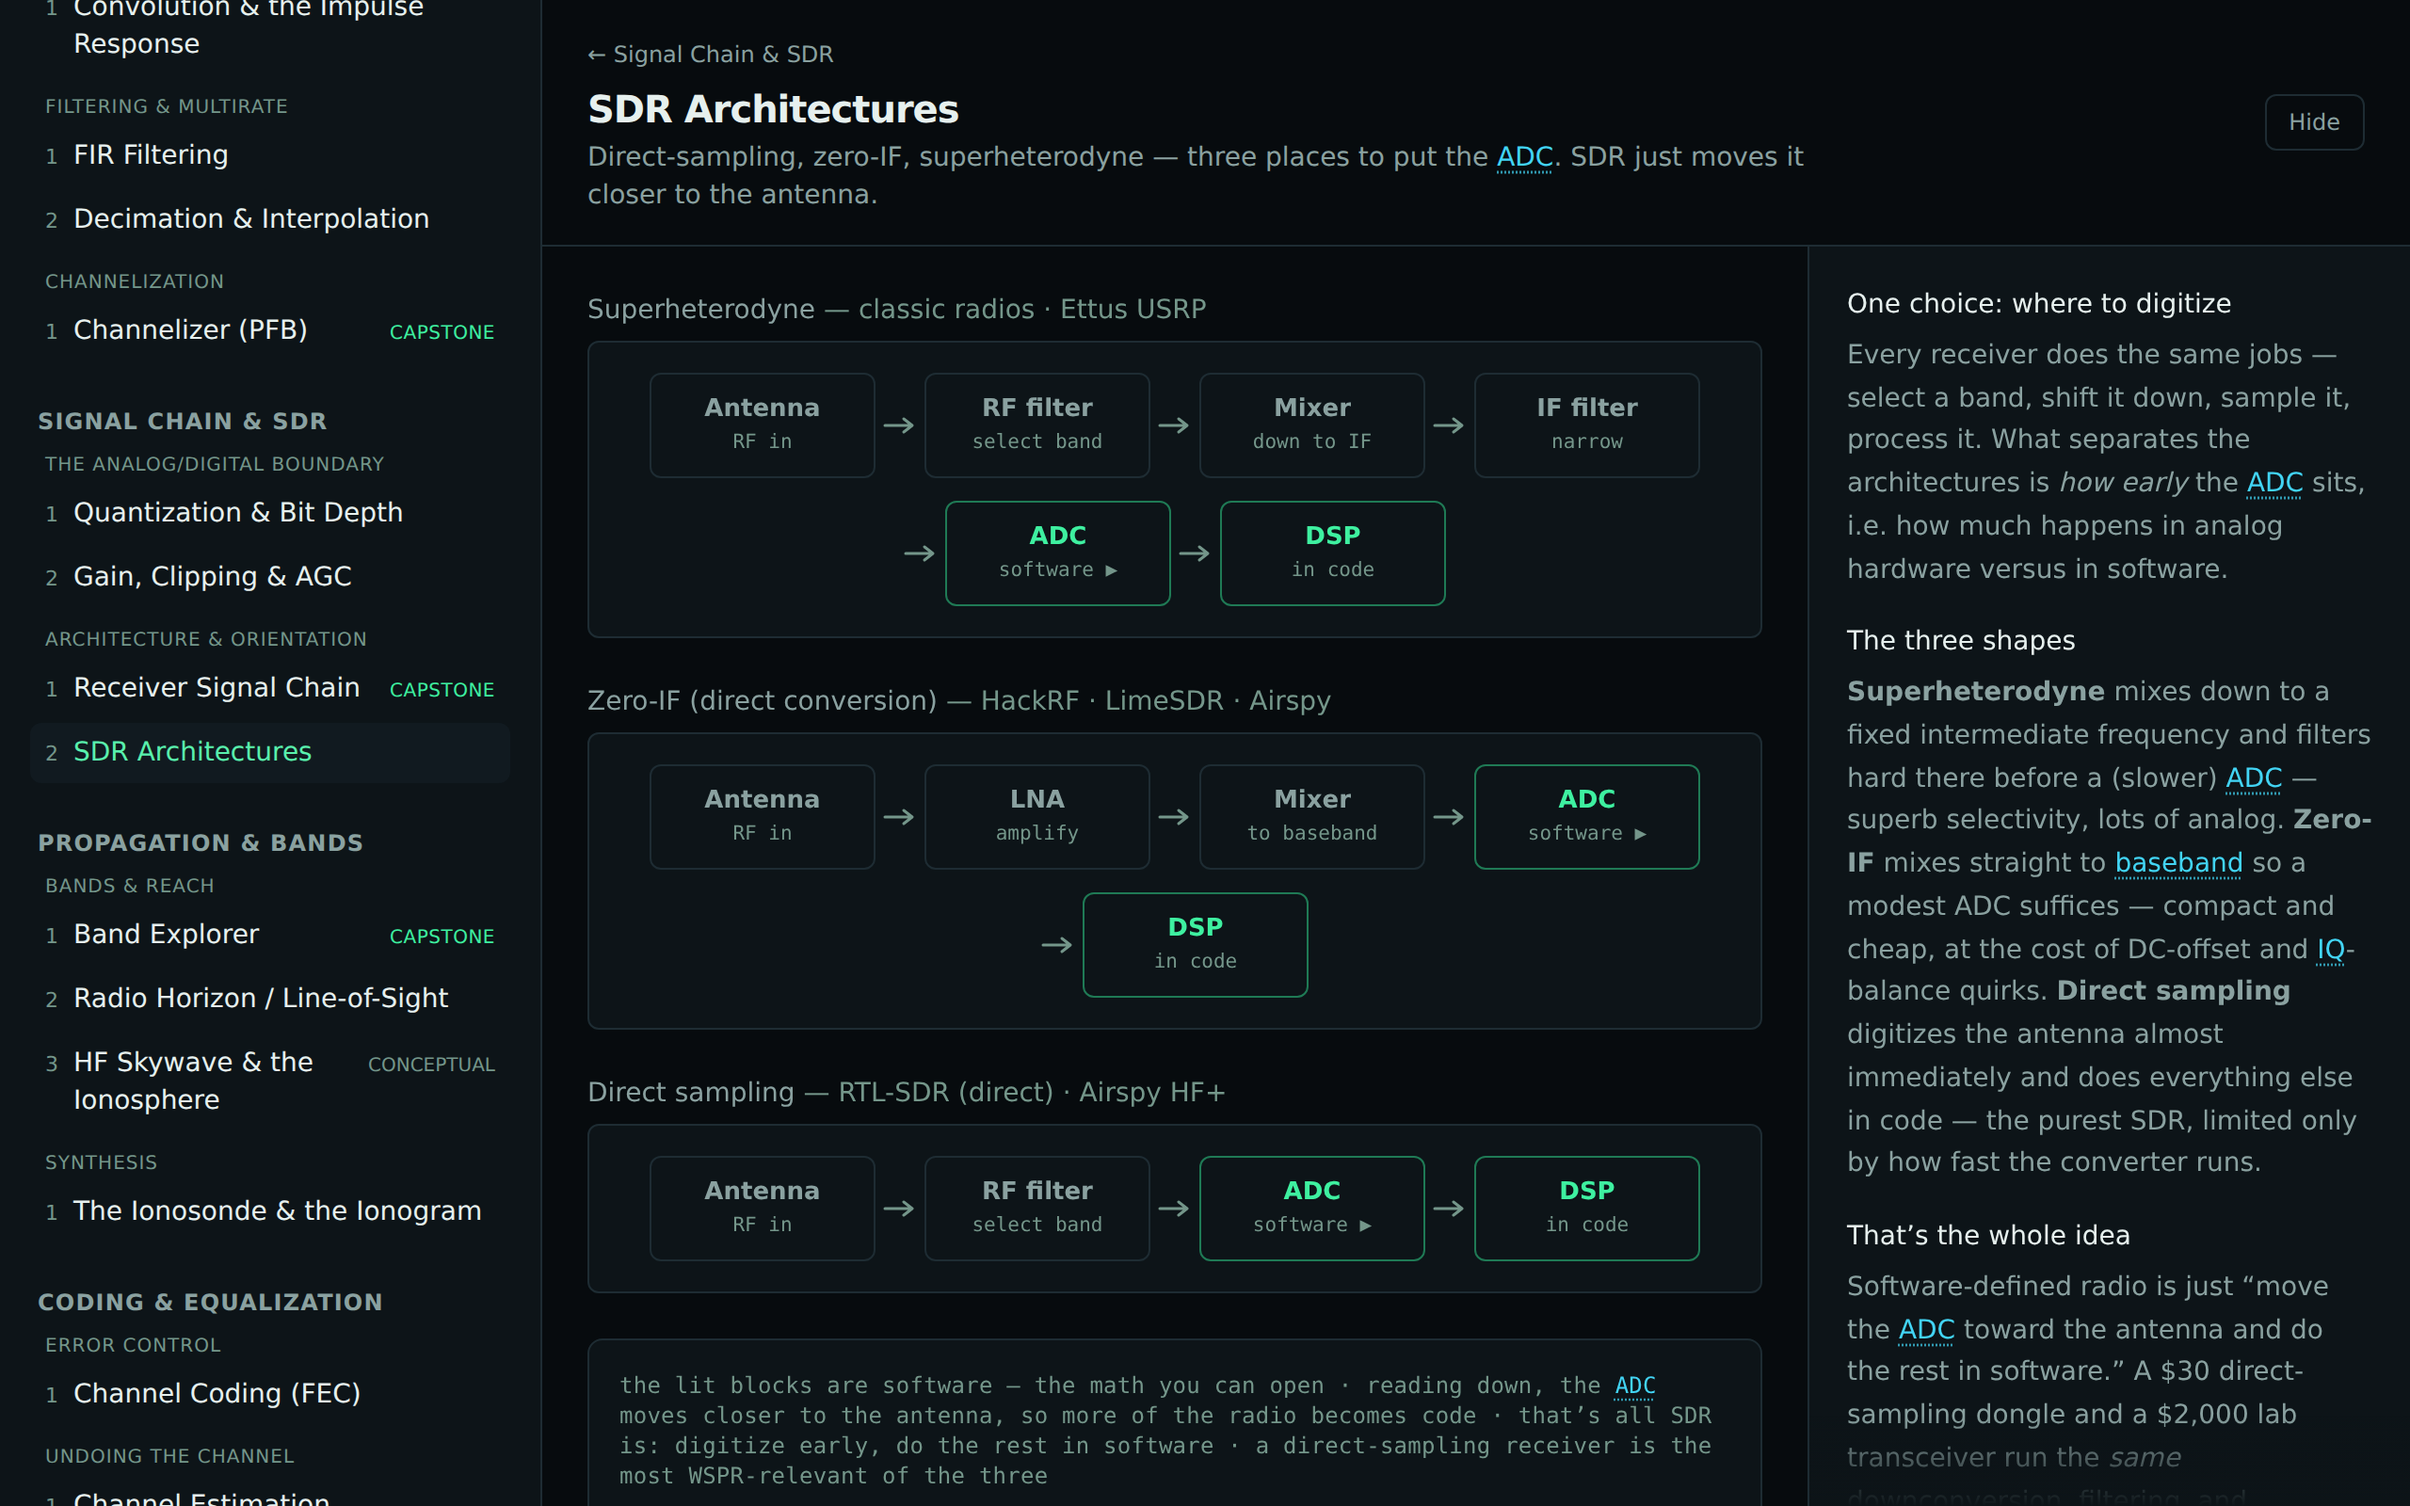
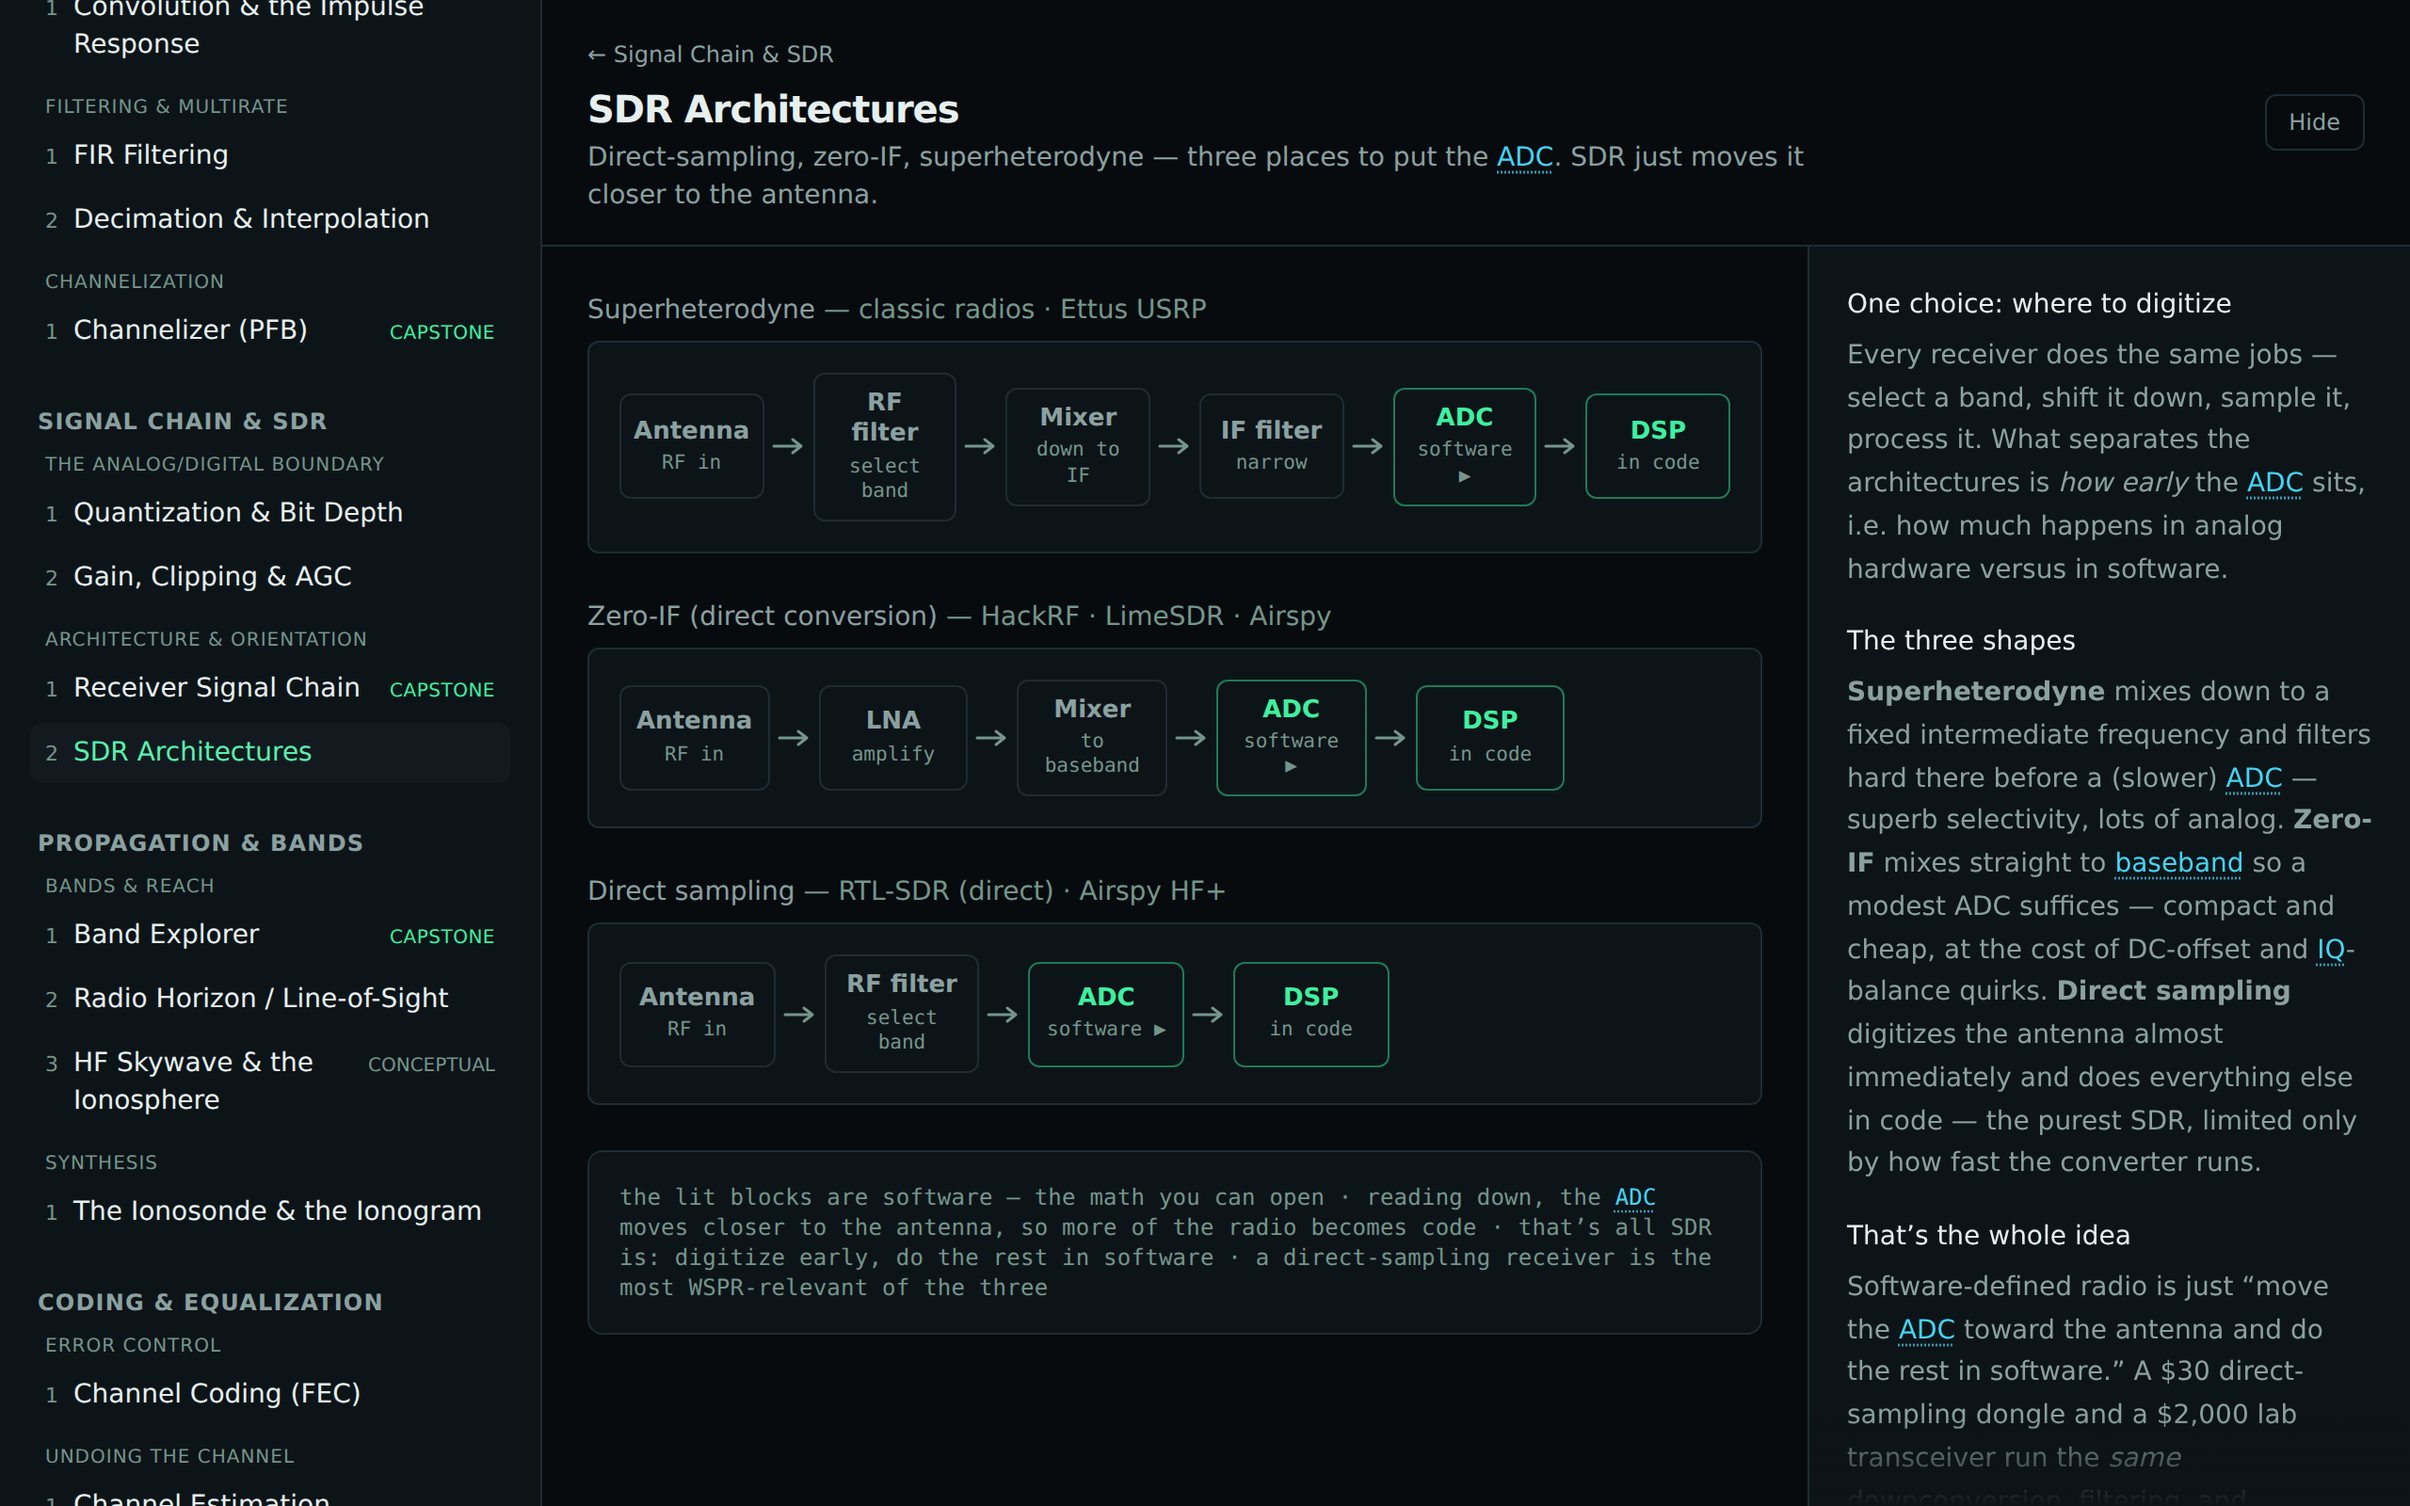
Keep the SDR comparison aligned on a shared grid
The SDR Architectures module stacks three chains to make one point: reading
down, the ADC marches toward the antenna — more of the radio becoming software.
That reading only works if the ADC lines up column-for-column across the three
rows. The responsive-wrap change broke it: each diagram wrapped and centered on
its own, so the superhet ADC dropped to a second row while the zero-IF ADC sat
far right, and even unwrapped the centered rows of different lengths no longer
shared a left edge (raised in review).

Give the shared renderer a second layout for exactly this case: pass `columns`
and the chain lays out as one non-wrapping row on a `columns`-wide grid, block i
always in column i, shorter chains left-aligning into it — so block i lines up
across every diagram given the same width. The boxes shrink to fit instead of
wrapping (the SDR rows are short and were already comfortable that way). The SDR
module passes the longest chain's length; the ADC now steps one column closer to
the antenna down the stack at every viewport width.

The single long chains (receive/transmit) are unchanged — no `columns`, so they
still wrap with a minimum box width. One box style, two intentional layouts.
SDR screenshot regenerated; the signal-chain image is unchanged.

Claude-Session: https://claude.ai/code/session_01P37fCFxA8pmtvGiGn2UdfE

Changed region(s): [[0.25, 0.25, 0.7188, 0.75], [0.25, 0.7812, 0.7188, 0.875], [0.25, 0.9062, 0.7188, 1.0]]

diff --git a/src/components/BlockDiagram.tsx b/src/components/BlockDiagram.tsx
@@ -17,6 +17,14 @@ export interface BlockDiagramProps {
   /** The chain in left-to-right order; a flow arrow is drawn between each block and the next. */
   blocks: DiagramBlock[];
   ariaLabel: string;
+  /** When set, lay the chain out as a **single non-wrapping row aligned to a shared `columns`-wide
+   *  grid** (block *i* always sits in column *i*; a shorter chain left-aligns and leaves trailing
+   *  columns empty), with the boxes shrinking to fit rather than wrapping. Use it to stack several
+   *  diagrams that must share one left-to-right coordinate — e.g. the SDR architectures, where the
+   *  ADC has to line up column-for-column so its march toward the antenna reads straight down the
+   *  stack. Pass the longest chain's length. Omit it and the chain **wraps responsively** instead
+   *  (the default, for a single long chain like the receive/transmit signal chain). */
+  columns?: number;
 }
 
 /**
@@ -27,76 +35,100 @@ export interface BlockDiagramProps {
  * not-built track) stay quiet and inert. Reusable as an app-wide orientation map — hence generic
  * over its blocks rather than baking in one chain.
  *
- * Layout: a flow of comfortable, fixed-width blocks that **wraps responsively** — one clean row when
- * the chain fits the container, breaking onto further rows when it doesn't. Each block keeps a
- * minimum readable width rather than shrinking to fit, so a long chain (the 8-box receive chain)
- * stays legible at any width. Each right-pointing arrow stays welded to the block it points into, so
- * a wrapped row begins with its incoming connector and the chain reads as one continuous flow across
- * the break (the standard block-diagram idiom — flow continues on the next row) — never a stranded
- * arrow or a horizontal scroll.
+ * Two layouts, one box style. **Default (wrap):** a flow of comfortable, fixed-width blocks that
+ * wraps responsively — one clean row when the container fits the chain, breaking onto further rows
+ * when it doesn't, each block holding a minimum readable width rather than shrinking, so a long
+ * chain (the 8-box receive chain) stays legible at any width. Each arrow stays welded to the block
+ * it points into, so a wrapped row begins with its incoming connector and the chain reads as one
+ * continuous flow across the break. **Aligned (`columns` set):** a single non-wrapping row on a
+ * shared grid, for stacking diagrams that must line up column-for-column (the SDR comparison); here
+ * the boxes shrink to fit instead of wrapping. Neither layout ever needs a horizontal scroll.
  */
-export function BlockDiagram({ blocks, ariaLabel }: BlockDiagramProps) {
+export function BlockDiagram({ blocks, ariaLabel, columns }: BlockDiagramProps) {
   const setActiveModule = useAppStore((s) => s.setActiveModule);
 
-  // A comfortable, scale-aligned box: wide enough that a two-line label ("Channelizer" / "split
-  // band") never crowds, the same on every row. It holds this width and the chain wraps first; only
-  // a container too narrow for even one box lets it shrink (min-w-0 + break-words) rather than ever
-  // pushing a horizontal scrollbar.
-  const base =
-    'flex min-h-14 w-30 min-w-0 max-w-full flex-col items-center justify-center gap-0.5 rounded-md border px-2 py-2 text-center leading-tight break-words';
+  // Shared box look. The chain holds a comfortable, scale-aligned fixed width and wraps first; the
+  // aligned grid instead lets the box fill its column and shrink with it. `min-w-0` + `break-words`
+  // keep a too-narrow container from ever pushing a horizontal scrollbar.
+  const boxBase =
+    'flex min-h-14 min-w-0 flex-col items-center justify-center gap-0.5 rounded-md border px-2 py-2 text-center leading-tight break-words';
+  const sizing = columns ? 'w-full' : 'w-30 max-w-full';
   const lit =
     'cursor-pointer border-signal-dim bg-surface text-signal transition-colors hover:border-signal hover:bg-surface-raised focus-visible:border-signal focus-visible:bg-surface-raised focus-visible:outline-none';
   const quiet = 'border-border bg-surface text-text-muted';
 
+  const renderBox = (n: DiagramBlock) => {
+    const linked = Boolean(n.moduleId && getModule(n.moduleId));
+    const go = () => linked && n.moduleId && setActiveModule(n.moduleId);
+    const cls = `${boxBase} ${sizing} ${linked ? lit : quiet}`;
+    const content = (
+      <>
+        <span className="text-[13px] font-semibold">{n.label}</span>
+        {n.sub && <span className="font-mono text-[10.5px] text-text-faint">{n.sub}</span>}
+      </>
+    );
+    return linked ? (
+      <button
+        type="button"
+        aria-label={`${n.label} — open the ${n.label} module`}
+        onClick={go}
+        className={cls}
+      >
+        {content}
+      </button>
+    ) : (
+      <div className={cls}>{content}</div>
+    );
+  };
+
+  // Aligned mode: a fixed grid of `columns` box tracks (minmax(0,1fr) — equal, shrinkable, never
+  // overflowing) interleaved with auto-width arrow tracks. Rendering each block then its trailing
+  // arrow fills the tracks left-to-right, so block i always lands in box-column i and lines up with
+  // block i of any sibling diagram given the same `columns` — that shared coordinate is the point.
+  if (columns) {
+    return (
+      <div
+        role="group"
+        aria-label={ariaLabel}
+        className="grid items-center gap-x-1 rounded-md border border-border bg-surface p-4"
+        style={{ gridTemplateColumns: Array(columns).fill('minmax(0,1fr)').join(' auto ') }}
+      >
+        {blocks.map((n, i) => (
+          <Fragment key={n.id}>
+            {renderBox(n)}
+            {i < blocks.length - 1 && <FlowArrow />}
+          </Fragment>
+        ))}
+      </div>
+    );
+  }
+
+  // Default mode: a responsive flow that wraps. The first block leads; every other block travels
+  // glued to the arrow that points into it as one non-wrapping unit, so a wrap breaks between blocks
+  // but never strands an arrow at a row's end — each continued row begins with its incoming
+  // connector, which reads as "the flow continues here" rather than a fresh, disconnected chain.
   return (
     <div
       role="group"
       aria-label={ariaLabel}
       className="flex flex-wrap items-center justify-center gap-x-1 gap-y-3 rounded-md border border-border bg-surface p-4"
     >
-      {blocks.map((n, i) => {
-        const linked = Boolean(n.moduleId && getModule(n.moduleId));
-        const go = () => linked && n.moduleId && setActiveModule(n.moduleId);
-
-        const content = (
-          <>
-            <span className="text-[13px] font-semibold">{n.label}</span>
-            {n.sub && <span className="font-mono text-[10.5px] text-text-faint">{n.sub}</span>}
-          </>
-        );
-
-        const box = linked ? (
-          <button
-            type="button"
-            aria-label={`${n.label} — open the ${n.label} module`}
-            onClick={go}
-            className={`${base} ${lit}`}
-          >
-            {content}
-          </button>
-        ) : (
-          <div className={`${base} ${quiet}`}>{content}</div>
-        );
-
-        // The first block leads the chain; every other block travels glued to the arrow that points
-        // into it as one non-wrapping unit. So a wrap breaks *between* blocks but never strands an
-        // arrow at a row's end — each continued row instead begins with its incoming connector,
-        // which is what reads as "the flow continues here" rather than a fresh, disconnected chain.
-        return i === 0 ? (
-          <Fragment key={n.id}>{box}</Fragment>
+      {blocks.map((n, i) =>
+        i === 0 ? (
+          <Fragment key={n.id}>{renderBox(n)}</Fragment>
         ) : (
           <div key={n.id} className="flex min-w-0 items-center gap-x-1">
             <FlowArrow />
-            {box}
+            {renderBox(n)}
           </div>
-        );
-      })}
+        )
+      )}
     </div>
   );
 }
 
-/** A right-pointing flow arrow welded to the block that follows it — the connective tissue that
- *  keeps the chain reading left-to-right across a wrap. Decorative: order is in the block sequence. */
+/** A right-pointing flow arrow into the block that follows it — the connective tissue that keeps the
+ *  chain reading left-to-right. Decorative: the order is conveyed by the block sequence. */
 function FlowArrow() {
   return (
     <svg

diff --git a/src/modules/signal-chain-sdr/sdr-architectures/SdrModule.tsx b/src/modules/signal-chain-sdr/sdr-architectures/SdrModule.tsx
@@ -43,6 +43,11 @@ const ARCHITECTURES: { id: string; name: string; examples: string; blocks: Diagr
   },
 ];
 
+// The three chains share one left-to-right grid this many columns wide (the longest chain), so the
+// ADC sits in the same column scale across all three — that shared coordinate is what lets the eye
+// read the ADC marching toward the antenna down the stack. The shorter chains left-align into it.
+const COLUMNS = Math.max(...ARCHITECTURES.map((a) => a.blocks.length));
+
 /**
  * SDR architectures (Track F). The same chain with the ADC in three different places: late
  * (superheterodyne), at baseband (zero-IF), or right behind the antenna (direct sampling). The lit
@@ -59,6 +64,7 @@ export function SdrModule() {
           </PlotTitle>
           <BlockDiagram
             blocks={a.blocks}
+            columns={COLUMNS}
             ariaLabel={`${a.name} architecture: ${a.blocks.map((n) => n.label).join(', ')}`}
           />
         </div>
